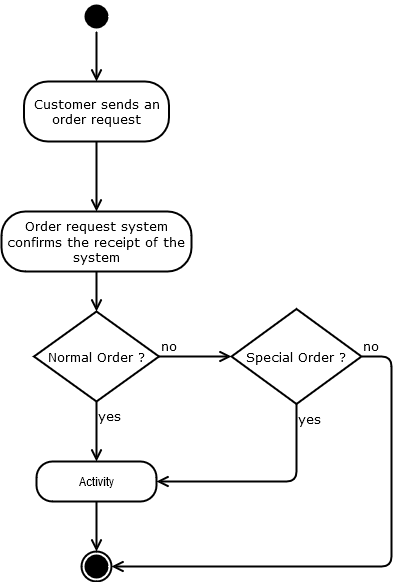
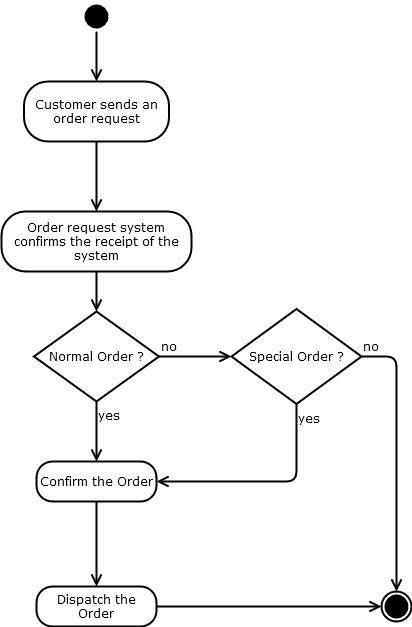
added UML descriptions

Changed region(s): [[0.0, 0.0, 1.0, 1.0]]

diff --git a/UML/README.md b/UML/README.md
@@ -2,19 +2,45 @@
 ## Class Diagram
 ![Alt text](./class.png?raw=true "Title")
 
-<p>Description</p>
+<p>
+A Customer has 2 attributes:
+<ul>
+<li>name</li>
+<li>location</li>
+</ul>
+And can perform the following 2 action (methods):
+<ul>
+<li>Send an order</li>
+<li>Receive an order</li>
+</ul>
+One Customer can have many orders and an order can have one and only one Customer. <br>
+An Order has 2 attributes:
+<ul>
+<li>date</li>
+<li>number</li>
+</ul>
+It can perform the following 2 action (methods):
+<ul>
+<li>Confirm an order</li>
+<li>Close an order</li>
+</ul>
+</p>
+SpeacialOrder and NormalOrder are 2 types of Order that inherit properties from Order class. <br>
 
 ## Use Case Diagram
 ![Alt text](./usecase.png?raw=true "Title")
 
-<p>Description</p>
+<p>
+A customer interacts with the Order management systems by placing an order.
+An order can be of 2 types Special or Normal.
+</p>
 
 ## Sequence Diagram
 ![Alt text](./sequence.png?raw=true "Title")
 
-<p>Description</p>
+<p>
+An object of customer class dispatches a sendOrder message to Order class (sends an order). The Order object receive the message and sends a confirm message to the NormalOrder or SpeacialOrder object. The respective order invokes dispatch call on itsef and returns confirmation to the calling Order object which inturn confirms to its caller Customer object.
+</p>
 
 ## Activity Diagram
 ![Alt text](./activity.png?raw=true "Title")
-
-<p>Description</p>
